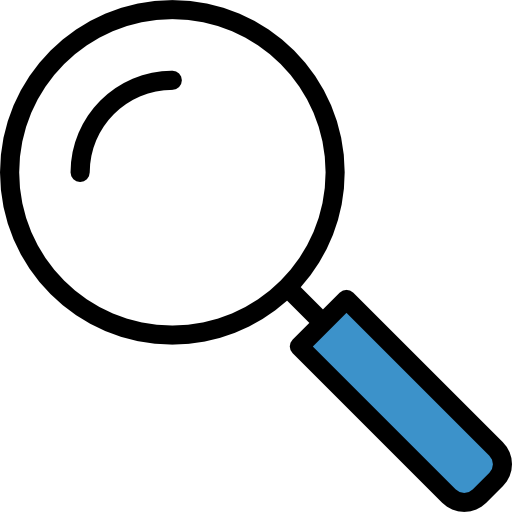
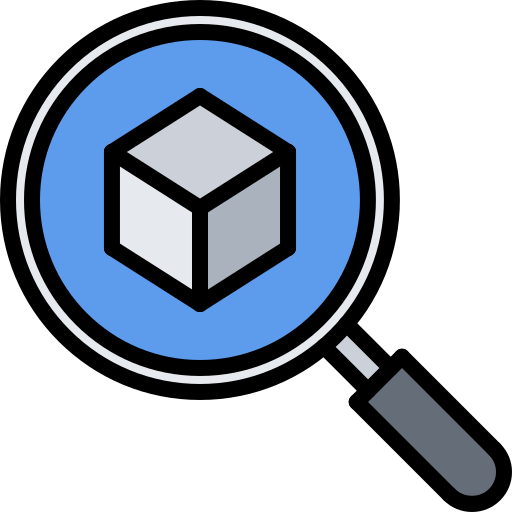
add images

diff --git a/FlyEngine/Source/ModuleImGui.cpp b/FlyEngine/Source/ModuleImGui.cpp
@@ -77,7 +77,7 @@ bool ModuleImGui::Start()
 
 	AddaptToFlySection(FLY_SECTION_ROOM_EDIT); 
 
-	FlyObject* test = App->moduleRoomManager->GetSelectedRoom()->CreateFlyObject("Test");
+	FlyObject* test = App->moduleRoomManager->GetSelectedRoom()->CreateFlyObject("Transformer");
 	string spritePath = MyFileSystem::getInstance()->GetSolutionDirectory() + "EngineResources/Images/Transformer.png"; 
 	test->AddAttributeImage(spritePath.c_str());
 
